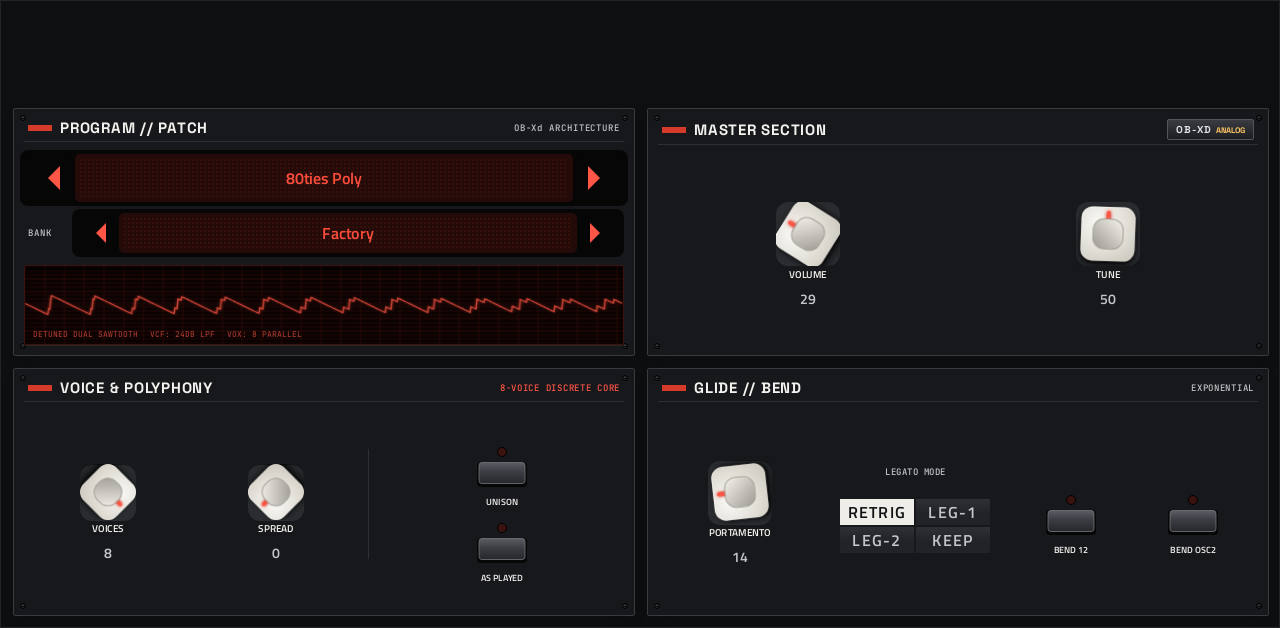
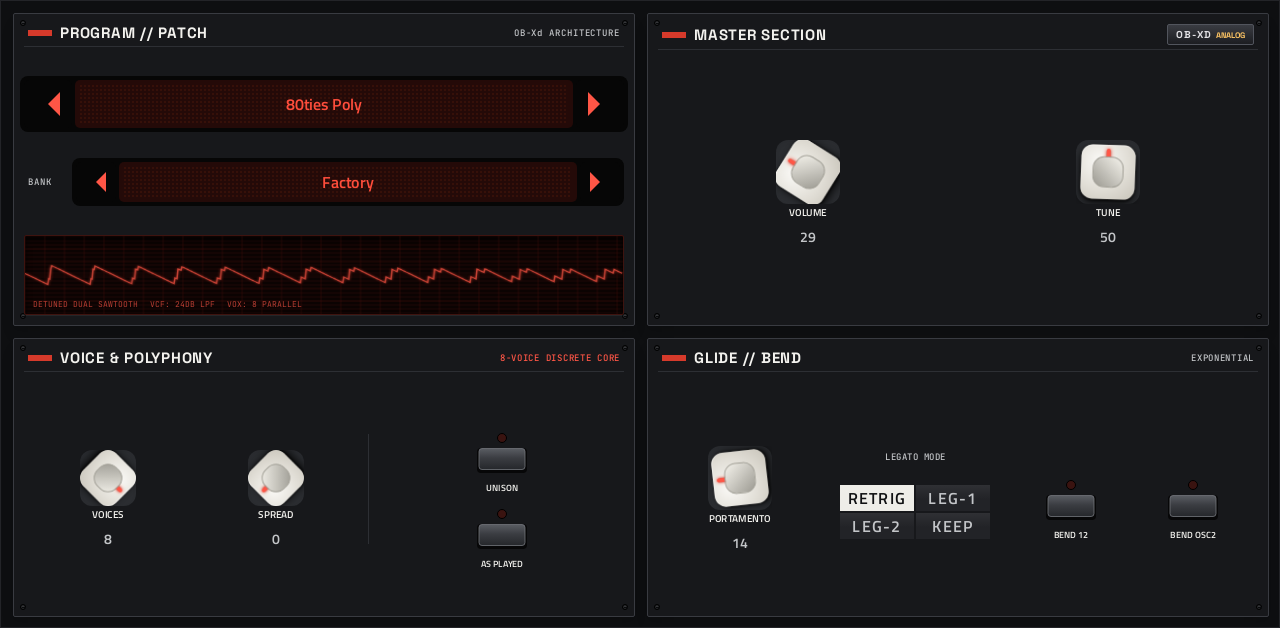
30 screens fill the plugin area (no empty bands above and below)
Rebuilt with the converter's `fill`: 303 (Open303), Aphex, Denis, Elements, Grids, GrooveBank, Hank,
Helm, Hera, Hush One, LibPO32, Marbles (SETUP only), MazeLite, MIDI Player, MonkSynth, Moog
(RaffoSynth: its frame centred), Mr Drums, Mr Hyde, Noisemaker, OB-Xd, PixelWalkers, Plaits, Rampage
(Dual Slope), Rings, Rings FX, SuperArp, Tablor, Verglas, Warps, Wurl. Same controls, parameters and
Q-Link order; only positions moved. Moog's and Noisemaker's hand edits (FILTER switch, BANK, the
shorter scope, design QA moves) carried over. Helm's switch captions now show the parameters' names.

Builds PASSED (offline test), check_skin OK for all 30, screenshots refreshed from the engine's
state. The .so files are the committed ones (only the screens changed). Not on a device yet.

diff --git a/README.md b/README.md
@@ -81,6 +81,9 @@ Use one or the other for this plugin: both register the same plugin (same uid), 
 - New touchscreen page from its Google Stitch design (`design/`): the design's artwork as the background, its own knob art, live names and values, and controls the design left out added in its style (see RESKINNING.md).
 - Presets in MPC's PRESET menu (2026-10-03): its presets are VST programs, listed live from the engine (vst.json
   `programs` with `count` and `name_at`; the engine answers a preset's name by number, marked MPC port), so it lists the bank that's loaded and follows a BANK switch.
+- **Full-height screen (2026-10-18)**: the panels fill MPC's 1280 × 628 plugin area. The Stitch conversion used to
+  centre the design at the height it had under its own header and footer (MPC draws its own), which left an empty
+  band above and below.
 
 ## Files
 
